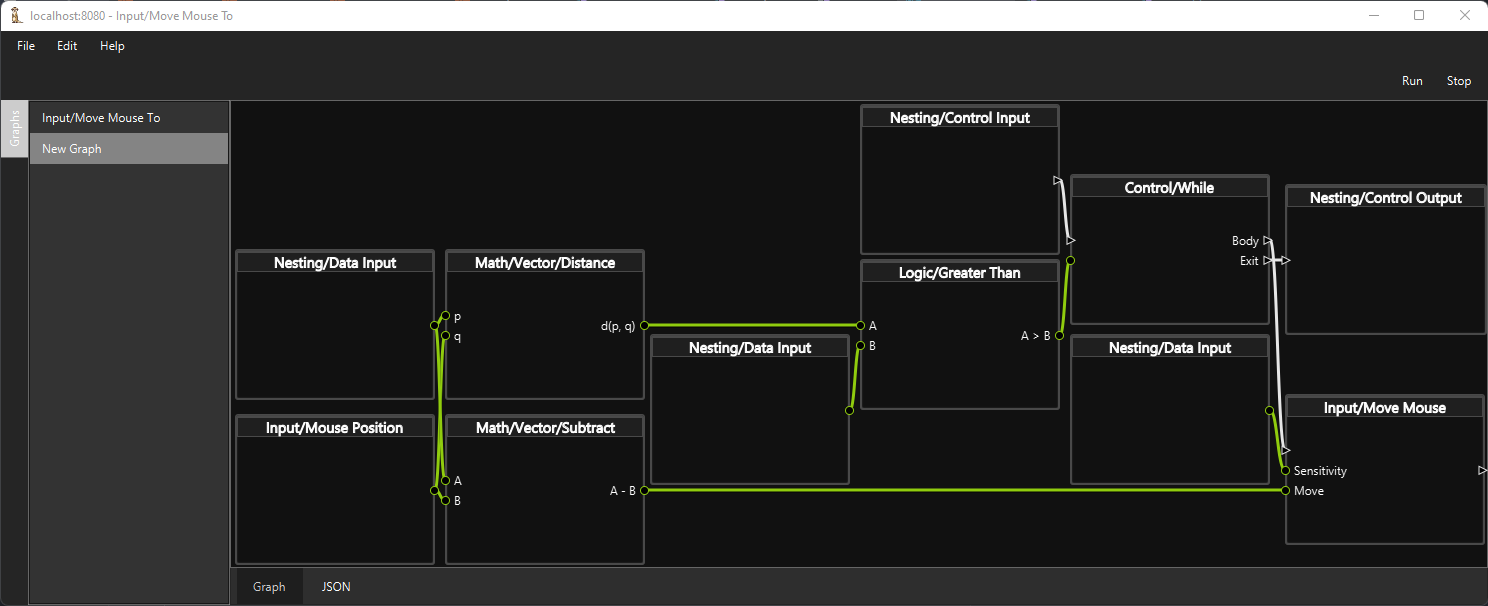
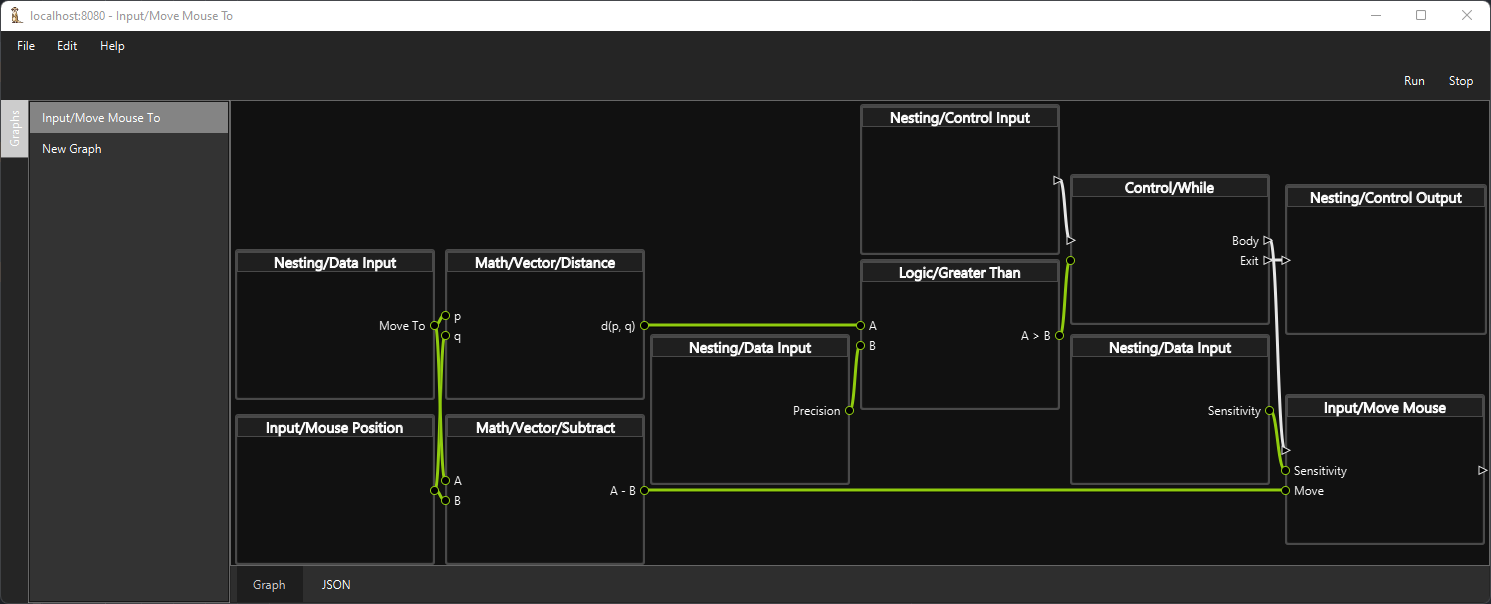
Add i18n, fix nesting label not shown

diff --git a/cran-vis/src/main/kotlin/com/valaphee/cran/graph/ConnectorShape.kt b/cran-vis/src/main/kotlin/com/valaphee/cran/graph/ConnectorShape.kt
@@ -61,6 +61,7 @@ class ConnectorShape(
         dynamicContent(connector.valueObjectProperty()) {
             children.clear()
 
+            val nodeValueObject = (connector.node.valueObject as NodeValueObject)
             if (it is ConnectorValueObject) {
                 spacing = 4.0
 
@@ -72,8 +73,8 @@ class ConnectorShape(
                     when (connector.type) {
                         "control" -> polygon(
                             0.0, -4.0,
-                            8.0, 0.0,
-                            0.0, 4.0,
+                            8.0,  0.0,
+                            0.0,  4.0,
                             0.0, -4.0,
                         ) {
                             styleClass += "node-connector-shape-${connector.type}"
@@ -82,8 +83,8 @@ class ConnectorShape(
                         "data" -> circle(4.0, 0.0, 4.0) { styleClass += "node-connector-shape-${connector.type}" }
                         else -> error(connector.type)
                     }
-                    label(when (it.spec.name) {
-                        "Nesting/Control Output", "Nesting/Data Output" -> (connector.node.getConnector("name").valueObject as ConnectorValueObject).valueProperty().asString()
+                    label(when (nodeValueObject.spec.name) {
+                        "Nesting/Control Output", "Nesting/Data Output" -> nodeValueObject.const.single { it.spec.json == "name" }.valueProperty.asString()
                         else -> it.spec.name.toProperty()
                     }) {
                         minWidthProperty().bind(Text().let {
@@ -96,8 +97,8 @@ class ConnectorShape(
                     paddingRight = -4.0
                     alignment = Pos.CENTER_RIGHT
 
-                    label(when (it.spec.name) {
-                        "Nesting/Control Input", "Nesting/Data Input" -> (connector.node.getConnector("name").valueObject as ConnectorValueObject).valueProperty().asString()
+                    label(when (nodeValueObject.spec.name) {
+                        "Nesting/Control Input", "Nesting/Data Input" -> nodeValueObject.const.single { it.spec.json == "name" }.valueProperty.asString()
                         else -> it.spec.name.toProperty()
                     }) {
                         minWidthProperty().bind(Text().let {
@@ -109,8 +110,8 @@ class ConnectorShape(
                     when (connector.type) {
                         "control" -> polygon(
                             0.0, -4.0,
-                            8.0, 0.0,
-                            0.0, 4.0,
+                            8.0,  0.0,
+                            0.0,  4.0,
                             0.0, -4.0
                         ) {
                             styleClass += "node-connector-shape-${connector.type}"

diff --git a/cran-vis/src/main/kotlin/com/valaphee/cran/MainView.kt b/cran-vis/src/main/kotlin/com/valaphee/cran/MainView.kt
@@ -65,6 +65,7 @@ import tornadofx.contextmenu
 import tornadofx.customitem
 import tornadofx.drawer
 import tornadofx.dynamicContent
+import tornadofx.get
 import tornadofx.getValue
 import tornadofx.item
 import tornadofx.listview
@@ -83,7 +84,7 @@ import java.util.zip.GZIPOutputStream
  */
 class MainView(
     environment: Settings.Environment
-) : View(), CoroutineScope {
+) : View("%main"), CoroutineScope {
     override val coroutineContext = Dispatchers.IO
 
     private val channel = environment.toChannel()
@@ -111,7 +112,7 @@ class MainView(
 
     init {
         rootHbox.children.add(0, drawer {
-            item("Graphs", null, true) {
+            item(messages["main.graphs"], null, true) {
                 minWidth = 200.0
                 maxWidth = 200.0
 
@@ -135,9 +136,9 @@ class MainView(
             }
 
             contextmenu {
-                item("New Graph") { action { this@with.items += graphProvider.get() } }
+                item(messages["main.graphs.new"]) { action { this@with.items += graphProvider.get() } }
                 separator()
-                item("Delete") {
+                item(messages["main.graphs.delete"]) {
                     action {
                         launch {
                             delete(selectionModel.selectedItems)
@@ -196,7 +197,7 @@ class MainView(
             minWidthProperty().bind(graphScrollPane.widthProperty())
             minHeightProperty().bind(graphScrollPane.heightProperty())
 
-            dynamicContent(graphProperty) { it?.flow?.setSkinFactories(SkinFactory(this)) }
+            dynamicContent(graphProperty) { it?.flow?.setSkinFactories(SkinFactory(this, null, messages)) }
 
             MouseControlUtil.addSelectionRectangleGesture(this, rectangle {
                 stroke = Color.rgb(255, 255, 255, 1.0)
@@ -278,7 +279,7 @@ class MainView(
         }.generateLayout()
     }
 
-    fun editLayoutDacMenuItemAction() {
+    fun editLayoutDagMenuItemAction() {
         LayoutGeneratorSmart().apply {
             layoutSelector = 3
             workflow = graph.flow.model

diff --git a/cran-vis/src/main/kotlin/com/valaphee/cran/graph/NodeSkin.kt b/cran-vis/src/main/kotlin/com/valaphee/cran/graph/NodeSkin.kt
@@ -28,6 +28,7 @@ import javafx.scene.Parent
 import javafx.scene.input.MouseEvent
 import tornadofx.action
 import tornadofx.contextmenu
+import tornadofx.get
 import tornadofx.item
 import tornadofx.onChange
 import tornadofx.separator
@@ -53,9 +54,9 @@ class NodeSkin(
         resizeableWindowProperty().onChange { if (it) isResizableWindow = false }
 
         contextmenu {
-            item("Delete") { action { controller.remove(model) } }
+            item((skinFactory as SkinFactory).messages["graph.node.delete"]) { action { controller.remove(model) } }
             separator()
-            item("Properties") { action { PropertiesView(model).openModal() } }
+            item((skinFactory as SkinFactory).messages["graph.node.properties"]) { action { PropertiesView(model).openModal() } }
         }
     }
 
@@ -79,7 +80,7 @@ class NodeSkin(
 
                     if (numOfExistingConnections < connector.maxNumberOfConnections) {
                         if (newConnectionSkin == null) {
-                            newConnectionSkin = NewConnectionSkin(skinFactory, parent, connector, controller, connector.type).init()
+                            newConnectionSkin = NewConnectionSkin((skinFactory as SkinFactory), parent, connector, controller, connector.type).init()
                             newConnectionSkin!!.add()
                             MouseEvent.fireEvent(newConnectionSkin!!.receiverUI, newConnectionPressEvent!!)
                         }

diff --git a/cran-vis/src/main/kotlin/com/valaphee/cran/graph/ConnectionSkin.kt b/cran-vis/src/main/kotlin/com/valaphee/cran/graph/ConnectionSkin.kt
@@ -20,21 +20,25 @@ import eu.mihosoft.vrl.workflow.Connection
 import eu.mihosoft.vrl.workflow.VFlow
 import eu.mihosoft.vrl.workflow.VisualizationRequest
 import eu.mihosoft.vrl.workflow.fx.DefaultFXConnectionSkin
-import eu.mihosoft.vrl.workflow.fx.FXSkinFactory
 import javafx.beans.binding.DoubleBinding
 import javafx.event.EventHandler
 import javafx.scene.Node
 import javafx.scene.Parent
+import javafx.scene.control.ContextMenu
 import javafx.scene.input.ContextMenuEvent
 import javafx.scene.shape.CubicCurveTo
 import javafx.scene.shape.MoveTo
 import javafx.scene.shape.Path
+import tornadofx.action
+import tornadofx.get
+import tornadofx.item
+import tornadofx.separator
 
 /**
  * @author Kevin Ludwig
  */
 class ConnectionSkin(
-    skinFactory: FXSkinFactory,
+    skinFactory: SkinFactory,
     parent: Parent,
     connection: Connection,
     flow: VFlow,
@@ -126,5 +130,11 @@ class ConnectionSkin(
         }
         connectionPath.addEventHandler(ContextMenuEvent.CONTEXT_MENU_REQUESTED, contextMenuHandler)
         receiverUI.addEventHandler(ContextMenuEvent.CONTEXT_MENU_REQUESTED, contextMenuHandler)
+    }
+
+    override fun createContextMenu() = ContextMenu().apply {
+        item((skinFactory as SkinFactory).messages["graph.connection.probe"])
+        separator()
+        item((skinFactory as SkinFactory).messages["graph.connection.remove"]) { action { controller.getConnections(type).remove(model) } }
     }
 }

diff --git a/cran-vis/src/main/kotlin/com/valaphee/cran/graph/properties/PropertiesView.kt b/cran-vis/src/main/kotlin/com/valaphee/cran/graph/properties/PropertiesView.kt
@@ -31,6 +31,8 @@ import tornadofx.enableWhen
 import tornadofx.field
 import tornadofx.fieldset
 import tornadofx.form
+import tornadofx.format
+import tornadofx.get
 import tornadofx.vbox
 import tornadofx.vgrow
 
@@ -39,7 +41,7 @@ import tornadofx.vgrow
  */
 class PropertiesView(
     private val node: VNode
-) : View("Properties - ${(node.valueObject as NodeValueObject).spec.name}") {
+) : View("%graph.properties") {
     private val objectMapper by di<ObjectMapper>()
 
     override val root = vbox {
@@ -66,7 +68,7 @@ class PropertiesView(
             }
         }
         buttonbar {
-            button("Ok") {
+            button(messages["graph.properties.ok"]) {
                 isDefaultButton = true
 
                 action {
@@ -74,16 +76,20 @@ class PropertiesView(
                     close()
                 }
             }
-            button("Cancel") {
+            button(messages["graph.properties.cancel"]) {
                 isCancelButton = true
 
                 action { close() }
             }
-            button("Apply") {
+            button(messages["graph.properties.apply"]) {
                 enableWhen(viewModel.dirty)
 
                 action { viewModel.commit() }
             }
         }
+    }
+
+    init {
+        title = messages.format("graph.properties", (node.valueObject as NodeValueObject).spec.name)
     }
 }

diff --git a/cran-vis/src/main/kotlin/com/valaphee/cran/graph/Graph.kt b/cran-vis/src/main/kotlin/com/valaphee/cran/graph/Graph.kt
@@ -114,6 +114,8 @@ class Graph(
             heightProperty().update { if (settings.gridY > 0) height = round(it / settings.gridY) * settings.gridY }
 
             val const = mutableListOf<NodeValueObject.Const>()
+            valueObject = NodeValueObject(spec, const)
+
             spec.ports.forEach { portSpec ->
                 when (portSpec.type) {
                     Spec.Node.Port.Type.InControl -> addInput("control").apply {
@@ -137,8 +139,6 @@ class Graph(
                     Spec.Node.Port.Type.Const -> const += NodeValueObject.Const(portSpec, SimpleObjectProperty(null))
                 }
             }
-
-            valueObject = NodeValueObject(spec, const)
         }
     }
 }

diff --git a/cran-vis/src/main/kotlin/com/valaphee/cran/WelcomeView.kt b/cran-vis/src/main/kotlin/com/valaphee/cran/WelcomeView.kt
@@ -24,18 +24,21 @@ import tornadofx.bind
 import tornadofx.field
 import tornadofx.fieldset
 import tornadofx.form
+import tornadofx.get
 import tornadofx.textfield
 
 /**
  * @author Kevin Ludwig
  */
-class WelcomeView : View("Welcome") {
+class WelcomeView : View("%welcome") {
     override val root by fxml<Parent>("/welcome.fxml")
     private val welcomePane by fxid<Pane>()
 
     private val environment = Settings.Environment("localhost:8080")
 
     init {
+        title = messages["welcome"]
+
         with(welcomePane) {
             form {
                 fieldset {

diff --git a/cran-vis/src/main/kotlin/com/valaphee/cran/graph/SkinFactory.kt b/cran-vis/src/main/kotlin/com/valaphee/cran/graph/SkinFactory.kt
@@ -22,6 +22,7 @@ import eu.mihosoft.vrl.workflow.VNode
 import eu.mihosoft.vrl.workflow.fx.FXConnectionSkin
 import eu.mihosoft.vrl.workflow.fx.FXSkinFactory
 import javafx.scene.Parent
+import java.util.ResourceBundle
 
 /**
  * @author Kevin Ludwig
@@ -29,6 +30,7 @@ import javafx.scene.Parent
 class SkinFactory(
     parent: Parent,
     parentFactory: FXSkinFactory? = null,
+    val messages: ResourceBundle
 ) : FXSkinFactory(parent, parentFactory) {
     override fun createSkin(node: VNode, flow: VFlow) = NodeSkin(this, fxParent, node, flow)
 

diff --git a/cran-vis/src/main/kotlin/com/valaphee/cran/graph/NewConnectionSkin.kt b/cran-vis/src/main/kotlin/com/valaphee/cran/graph/NewConnectionSkin.kt
@@ -19,14 +19,13 @@ package com.valaphee.cran.graph
 import eu.mihosoft.vrl.workflow.Connector
 import eu.mihosoft.vrl.workflow.VFlow
 import eu.mihosoft.vrl.workflow.fx.FXNewConnectionSkin
-import eu.mihosoft.vrl.workflow.fx.FXSkinFactory
 import javafx.scene.Parent
 
 /**
  * @author Kevin Ludwig
  */
 class NewConnectionSkin(
-    skinFactory: FXSkinFactory,
+    skinFactory: SkinFactory,
     parent: Parent,
     sender: Connector,
     flow: VFlow,

diff --git a/cran-vis/src/main/kotlin/com/valaphee/cran/settings/SettingsView.kt b/cran-vis/src/main/kotlin/com/valaphee/cran/settings/SettingsView.kt
@@ -18,10 +18,15 @@ package com.valaphee.cran.settings
 
 import javafx.scene.Parent
 import tornadofx.View
+import tornadofx.get
 
 /**
  * @author Kevin Ludwig
  */
-class SettingsView : View("Settings") {
+class SettingsView : View("%settings") {
     override val root by fxml<Parent>("/settings.fxml")
+
+    init {
+        title = messages["settings"]
+    }
 }

diff --git a/cran-vis/src/main/kotlin/com/valaphee/cran/AboutView.kt b/cran-vis/src/main/kotlin/com/valaphee/cran/AboutView.kt
@@ -18,10 +18,15 @@ package com.valaphee.cran
 
 import javafx.scene.Parent
 import tornadofx.View
+import tornadofx.get
 
 /**
  * @author Kevin Ludwig
  */
-class AboutView : View("About") {
+class AboutView : View("%about") {
     override val root by fxml<Parent>("/about.fxml")
+
+    init {
+        title = messages["about"]
+    }
 }
